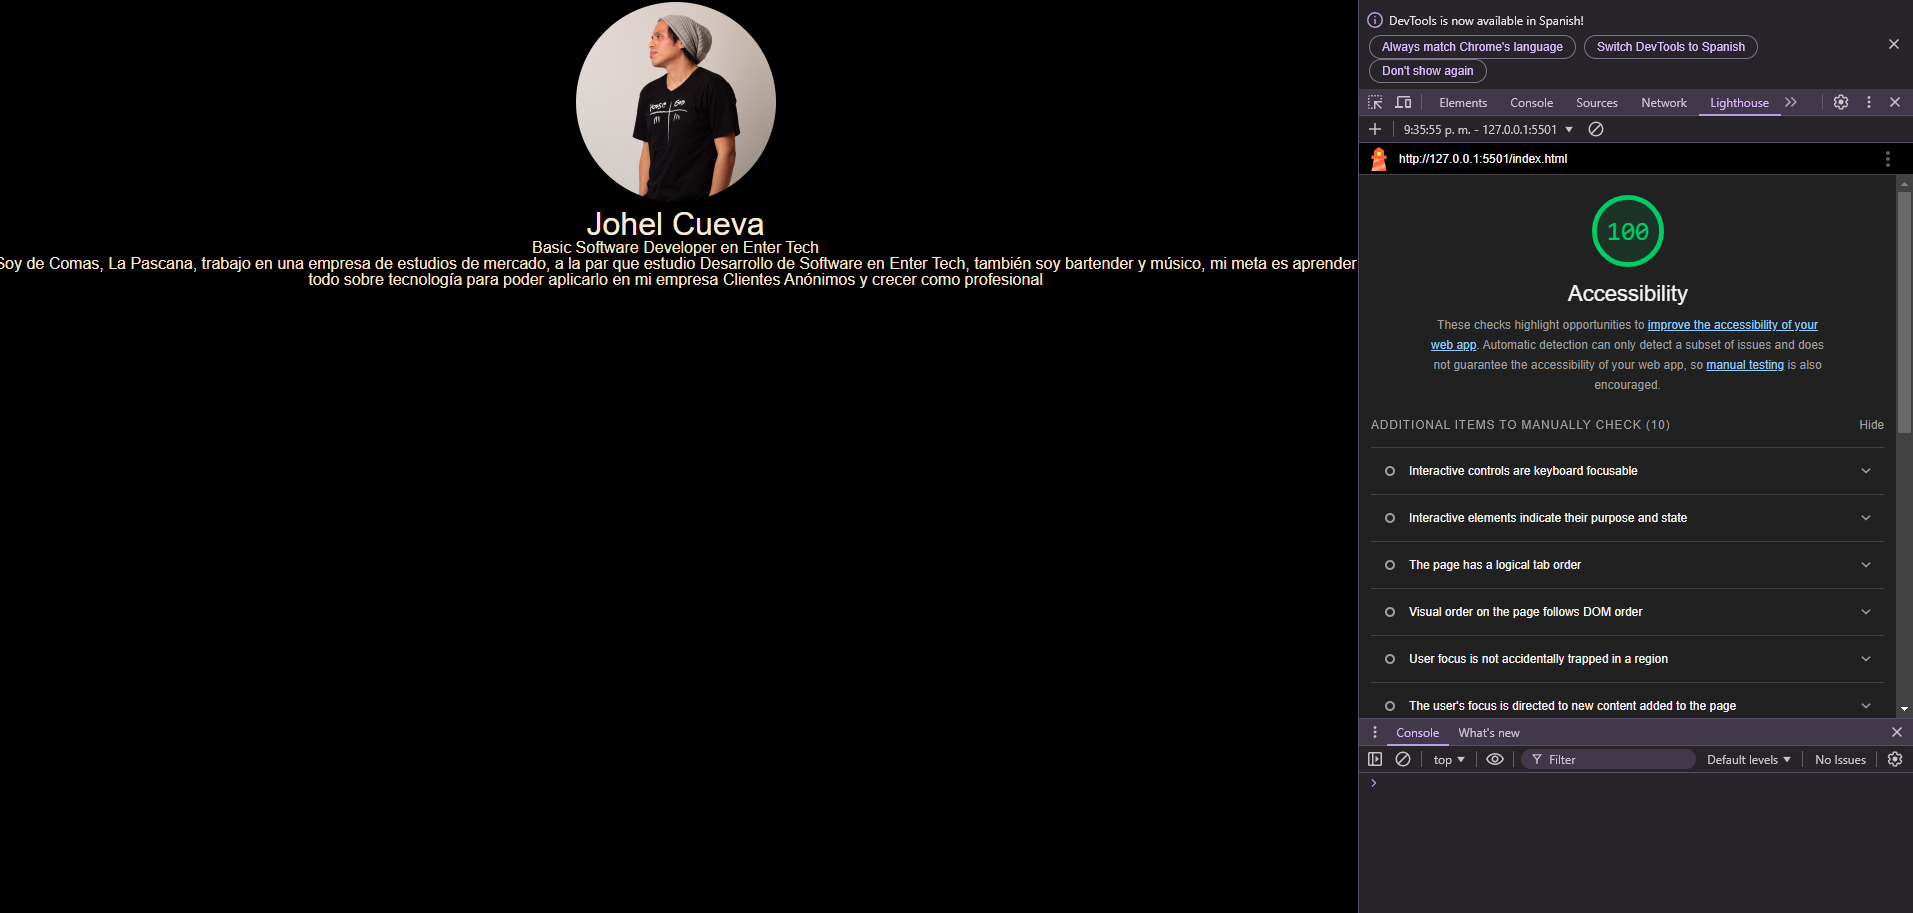
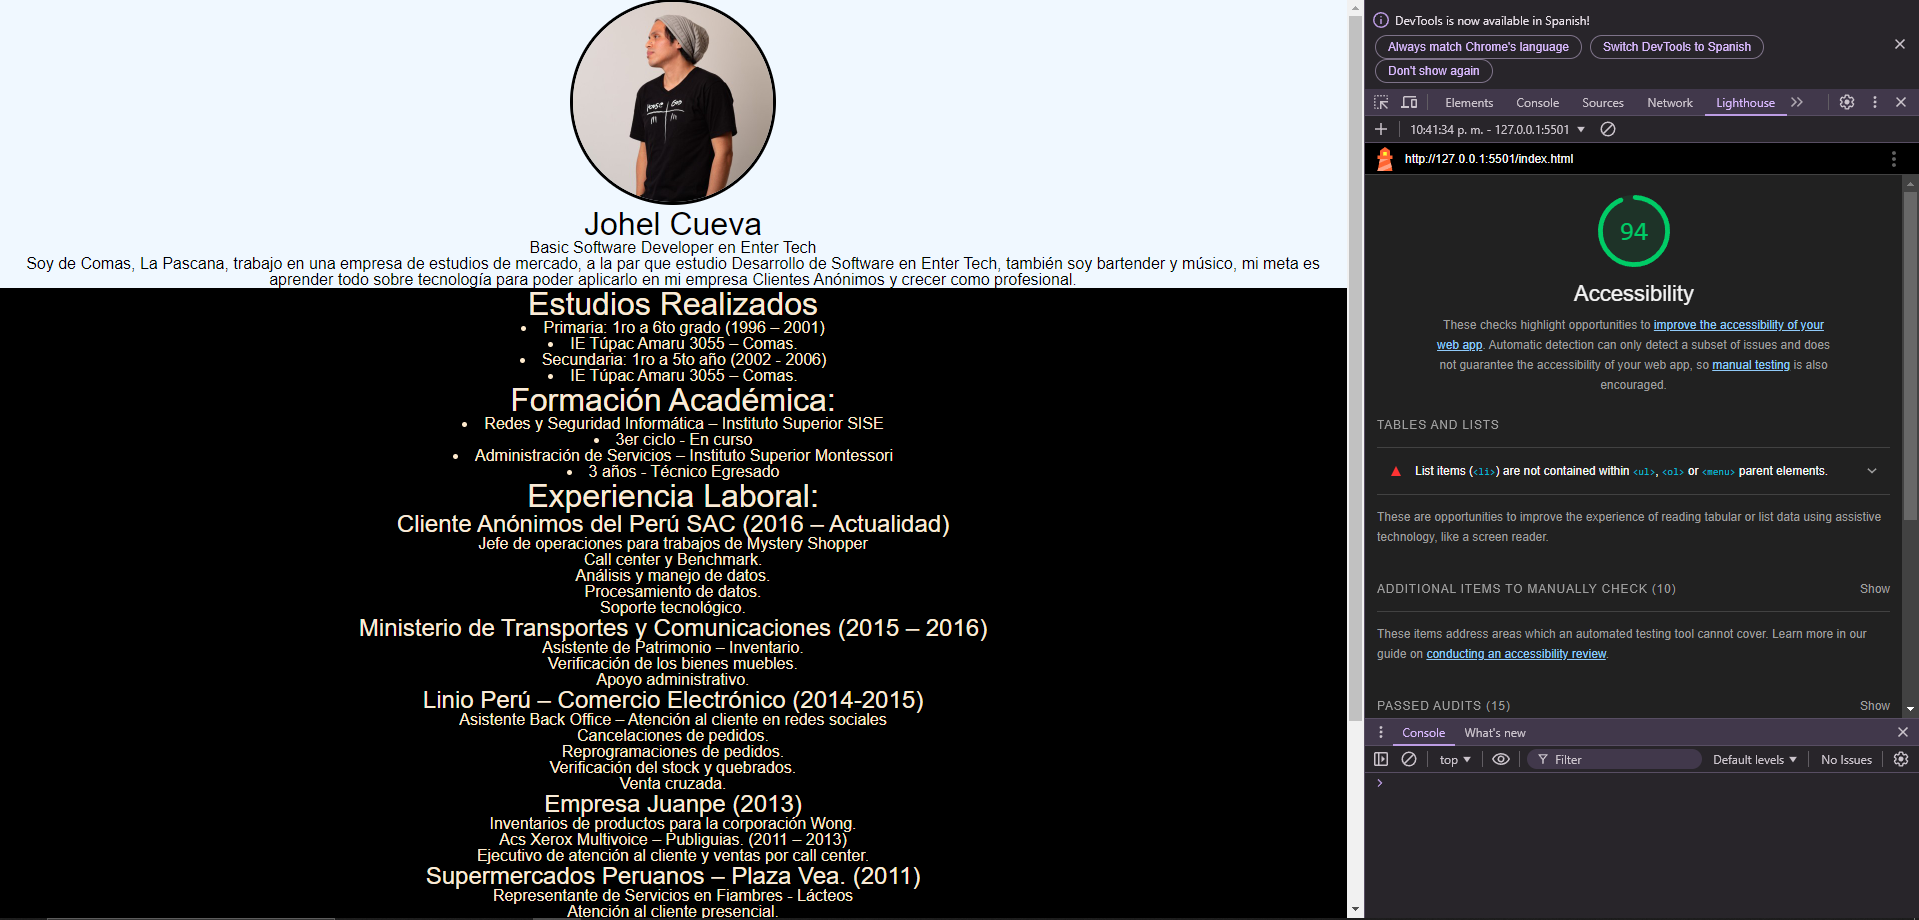
final lab2

diff --git a/index.html b/index.html
@@ -12,17 +12,95 @@
 <body>
     <main>
         <section>
-            <img 
-            src="https://media.licdn.com/dms/image/C5603AQENoiUo-O_w1Q/profile-displayphoto-shrink_400_400/0/1603571167283?e=2147483647&v=beta&t=9Lruph2dUSbhlIK4vLpenRn6sdXjm_5W-StzuSLkQy0" 
-            alt="Foto de perfil"
-            />
+            <img src="https://media.licdn.com/dms/image/C5603AQENoiUo-O_w1Q/profile-displayphoto-shrink_400_400/0/1603571167283?e=2147483647&v=beta&t=9Lruph2dUSbhlIK4vLpenRn6sdXjm_5W-StzuSLkQy0"
+                alt="Foto de perfil" />
             <h1 aria-label="Johel Cueva">Johel Cueva</h1>
             <p aria-label="Basic Software Developer en Enter Tech">Basic Software Developer en Enter Tech</p>
-            <p aria-label="Soy de Comas, La Pascana, trabajo en una empresa de estudios de mercado, a la par que estudio Desarrollo de Software en Enter Tech, 
-            también soy bartender y músico, mi meta es aprender todo sobre tecnología para poder aplicarlo en mi empresa Clientes Anónimos y crecer como profesional">Soy de Comas, La Pascana, trabajo en una empresa de estudios de mercado, a la par que estudio Desarrollo de Software en Enter Tech, 
-            también soy bartender y músico, mi meta es aprender todo sobre tecnología para poder aplicarlo en mi empresa Clientes Anónimos y crecer como profesional </p>
-        
+
+            <p
+                aria-label="Soy de Comas, La Pascana, trabajo en una empresa de estudios de mercado, a la par que estudio Desarrollo de Software en Enter Tech, 
+        también soy bartender y músico, mi meta es aprender todo sobre tecnología para poder aplicarlo en mi empresa Clientes Anónimos y crecer como profesional. ">
+                Soy de Comas, La Pascana, trabajo en una empresa de estudios de mercado, a la par que estudio Desarrollo
+                de Software en Enter Tech,
+                también soy bartender y músico, mi meta es aprender todo sobre tecnología para poder aplicarlo en mi
+                empresa Clientes Anónimos y crecer como profesional. </p>
+
         </section>
+
+
+
+
+        <h2> Estudios Realizados</h2>
+        <li>Primaria: 1ro a 6to grado (1996 – 2001)</li>
+        <li>IE Túpac Amaru 3055 – Comas.</li>
+        <li>Secundaria: 1ro a 5to año (2002 - 2006)</li>
+        <li>IE Túpac Amaru 3055 – Comas.</li>
+
+        <h2>Formación Académica:</h2>
+        <li>Redes y Seguridad Informática – Instituto Superior SISE</li>
+        <li>3er ciclo - En curso</li>
+        <li>Administración de Servicios – Instituto Superior Montessori</li>
+        <li> 3 años - Técnico Egresado </li>
+
+        <h2>Experiencia Laboral:</h2>
+        <h3>Cliente Anónimos del Perú SAC (2016 – Actualidad)</h3>
+        <ul class="one">
+            <li>Jefe de operaciones para trabajos de Mystery Shopper </li>
+            <li>Call center y Benchmark.</li>
+            <li>Análisis y manejo de datos.</li>
+            <li>Procesamiento de datos.</li>
+            <li>Soporte tecnológico.</li>
+        </ul>
+
+        <h3>Ministerio de Transportes y Comunicaciones (2015 – 2016)</h3>
+        <ul class="one">
+            <li>Asistente de Patrimonio – Inventario.</li>
+            <li>Verificación de los bienes muebles.</li>
+            <li>Apoyo administrativo.</li>
+        </ul>
+
+        <h3>Linio Perú – Comercio Electrónico (2014-2015)</h3>
+        <ul class="one">
+            <li>Asistente Back Office – Atención al cliente en redes sociales</li>
+            <li>Cancelaciones de pedidos.</li>
+            <li>Reprogramaciones de pedidos.</li>
+            <li>Verificación del stock y quebrados.</li>
+            <li>Venta cruzada.</li>
+        </ul>
+
+        <h3>Empresa Juanpe (2013)</h3>
+        <ul class="one">
+            <li>Inventarios de productos para la corporación Wong.</li>
+            <li>Acs Xerox Multivoice – Publiguias. (2011 – 2013)</li>
+            <li>Ejecutivo de atención al cliente y ventas por call center.</li>
+        </ul>
+
+        <h3>Supermercados Peruanos – Plaza Vea. (2011)</h3>
+        <ul class="one">
+            <li>Representante de Servicios en Fiambres - Lácteos</li>
+            <li>Atención al cliente presencial.</li>
+            <li>Cortes, presentación y venta de los productos.</li>
+            <li>Inventario de los mismos.</li>
+        </ul>
+
+        <h3>Empresa Comerext, Colombia – Perú (2010 - 2011).</h3>
+        <ul class="one">
+            <li>Asistente Administrativo - Supervisión y control del personal.</li>
+            <li>Hipermercados Tottus – Grupo Falabella (2010).</li>
+            <li>Logístico y estibador de comidas preparadas.</li>
+            <li>Separación, distribución e inventario.</li>
+            <li>Etiquetado y terminado de la sección de Pastelería.</li>
+        </ul>
+
+        <h2>Conocimientos:</h2>
+        <ul class="one">
+            <li>Base de datos: SQL Server, MySQL.</li>
+            <li>Developer: Visual Studio, JS, Apache NetBeans</li>
+            <li>Ofimática: Word, Excel, Power Point, Access, Front Page</li>
+            <li>Idioma: Inglés Básico.</li>
+
+        </ul>
+
 
 
     </main>

diff --git a/css/style.css b/css/style.css
@@ -1,6 +1,8 @@
 body {
     font-family: Helvetica, sans-serif;
     background-color: black;
+    color: blanchedalmond;
+    text-align: center;
 }
 
 img {
@@ -14,14 +16,41 @@ img {
 
 section {
     text-align: center;
+    box-sizing: border-box;
+    background-color: aliceblue;
+    color: black;
 }
 
 h1 {
     font-size: xx-large;
-    color: antiquewhite;
+    color: black;
 }
 
 p {
-    color:bisque;
+    color:black;
     text-rendering: auto;
+}
+
+h2 {
+    font-size: xx-large;
+    color: antiquewhite;
+}
+
+h3 {
+    font-size: x-large;
+    color: antiquewhite;
+}
+
+
+ul {
+.one {
+    list-style: circle;
+  }
+}
+
+
+
+body section{
+    position: sticky;
+    top: 0;
 }
